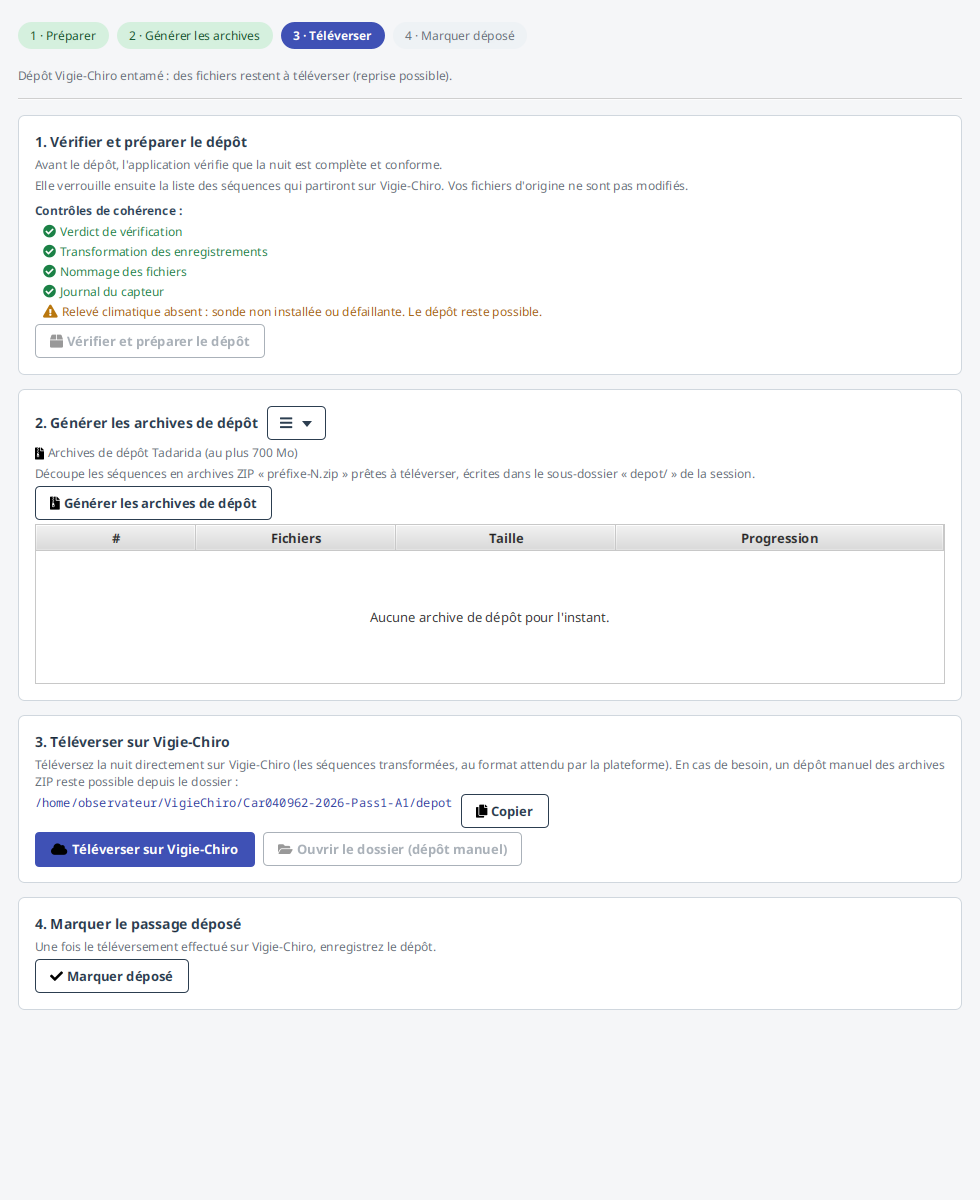
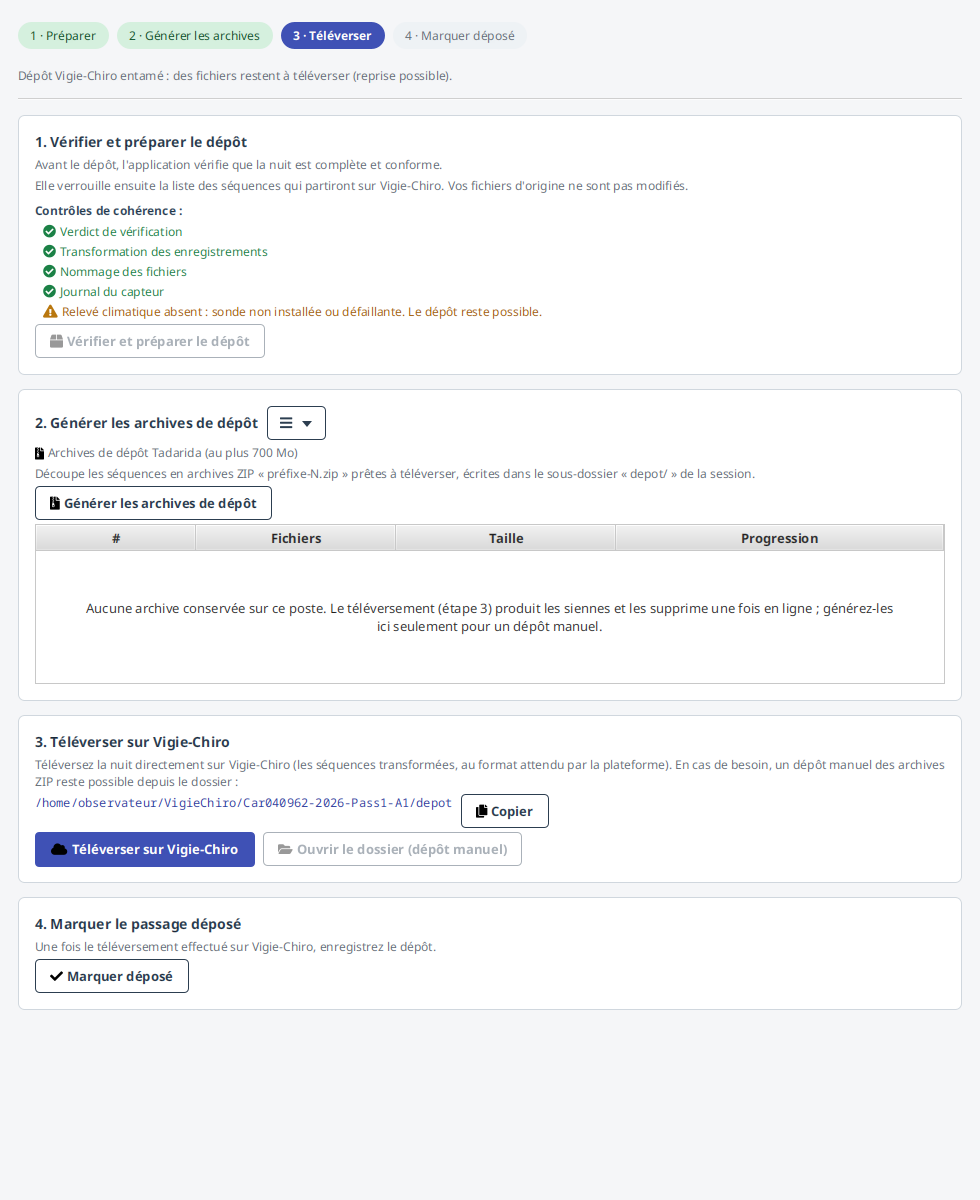
fix(lot): l'étape 2 ne dit plus « aucune archive » pendant que l'étape 3 les envoie
Pendant le dépôt réel de #5597, l'étape 2 affichait « Aucune archive de
dépôt pour l'instant. » alors que la table de l'étape 3 montrait les ZIP
en cours, en attente ou terminés. Le téléversement produit ses archives
au fil de l'envoi et supprime chacune une fois en ligne : l'étape 2, qui
ne liste que les archives présentes sur le disque, restait vide et le
disait d'une façon qui contredisait l'étape 3.

Le texte de la table vide suit désormais l'état, avec les libellés
validés par le porteur :

- pendant un téléversement : le téléversement produit ses archives au
  fil de l'envoi et les supprime une fois en ligne, suivez-les à
  l'étape 3 ;
- dépôt automatique offert, sans envoi en cours (état initial, dépôt
  entamé, dépôt terminé) : aucune archive conservée sur ce poste, et la
  génération ne sert qu'au dépôt manuel ;
- sans dépôt automatique : l'ancien texte, inchangé.

Le dépôt automatique est présent dans toute l'application, connecté ou
non : le troisième texte ne s'affiche que dans les contextes partiels.
Le texte, enroulé sur deux lignes, est centré avec une marge.

Les aperçus du lot dont la table de l'étape 2 est vide sont régénérés,
docs/ecrans/lot.md le dit, et S4-96 l'ajoute à la recette.

Closes #5679

Changed region(s): [[0.0918, 0.4933, 0.8878, 0.5242]]

diff --git a/src/test/java/fr/univ_amu/iut/lot/view/LotDepotConnecteViewTest.java b/src/test/java/fr/univ_amu/iut/lot/view/LotDepotConnecteViewTest.java
@@ -35,12 +35,14 @@ import fr.univ_amu.iut.lot.model.TypeDepotUnite;
 import fr.univ_amu.iut.lot.viewmodel.DepotViewModel;
 import fr.univ_amu.iut.lot.viewmodel.LotViewModel;
 import fr.univ_amu.iut.lot.viewmodel.TraitementViewModel;
+import fr.univ_amu.iut.recette.Attente;
 import java.util.List;
 import java.util.Optional;
 import javafx.fxml.FXMLLoader;
 import javafx.scene.Parent;
 import javafx.scene.control.Button;
 import javafx.scene.control.Label;
+import javafx.scene.control.TableView;
 import javafx.scene.layout.VBox;
 import javafx.stage.Stage;
 import org.junit.jupiter.api.DisplayName;
@@ -71,11 +73,13 @@ class LotDepotConnecteViewTest {
     private DepotVigieChiro depot;
     private SuiviTraitement suivi;
     private LotController controleur;
+    private DepotViewModel depotViewModel;
 
     @Start
     void start(Stage stage) throws Exception {
         service = mock(ServiceLot.class);
         depot = mock(DepotVigieChiro.class);
+        depotViewModel = new DepotViewModel(service, Optional.of(depot));
         suivi = mock(SuiviTraitement.class);
         // État réel après un dépôt par l'API : nuit téléversée (plan rempli), participation liée.
         when(service.consulterLot(anyLong()))
@@ -96,7 +100,7 @@ class LotDepotConnecteViewTest {
 
                     @Provides
                     DepotViewModel depotViewModel() {
-                        return new DepotViewModel(service, Optional.of(depot));
+                        return depotViewModel;
                     }
 
                     @Provides
@@ -118,6 +122,37 @@ class LotDepotConnecteViewTest {
         controleur.ouvrirSur(CONTEXTE);
         FenetreAjustable.poser(stage, vue, 980, 980);
         FenetreAjustable.afficher(stage);
+    }
+
+    /// Connecté, le téléversement produit ses ZIP et les supprime une fois en ligne : l'étape 2 vide
+    /// disait « aucune archive » pendant que l'étape 3 les envoyait (#5679, recette de #5597).
+    @Test
+    @DisplayName(
+            "#5679 : connecté sans envoi en cours, l'étape 2 dit que le téléversement produit et supprime ses archives")
+    void connecte_l_etape_2_dit_ou_sont_les_archives(FxRobot robot) {
+        assertThat(texteDeLEtape2(robot))
+                .doesNotContain("pour l'instant")
+                .contains("Aucune archive conservée sur ce poste")
+                .contains("dépôt manuel");
+    }
+
+    @Test
+    @DisplayName("#5679 : pendant un téléversement, l'étape 2 renvoie à l'étape 3 qui suit les archives")
+    void pendant_un_televersement_l_etape_2_renvoie_a_l_etape_3(FxRobot robot) {
+        Attente.surLeFil(depotViewModel::marquerEnCours, "un téléversement démarre", 5_000L);
+
+        assertThat(texteDeLEtape2(robot)).contains("au fil de l'envoi").contains("suivez-les à l'étape 3");
+    }
+
+    /// Le texte que la table de l'étape 2 affiche quand elle est vide, lu sur le fil JavaFX.
+    private static String texteDeLEtape2(FxRobot robot) {
+        return Attente.surLeFil(
+                () -> ((Label) robot.lookup("#tableArchives")
+                                .queryAs(TableView.class)
+                                .getPlaceholder())
+                        .getText(),
+                "lire le texte vide de l'étape 2",
+                5_000L);
     }
 
     @Test

diff --git a/src/main/java/fr/univ_amu/iut/lot/view/TableSuiviArchives.java b/src/main/java/fr/univ_amu/iut/lot/view/TableSuiviArchives.java
@@ -7,14 +7,21 @@ import fr.univ_amu.iut.lot.viewmodel.LigneArchive;
 import java.util.List;
 import javafx.beans.binding.Bindings;
 import javafx.beans.property.ReadOnlyObjectWrapper;
+import javafx.beans.value.ObservableValue;
+import javafx.geometry.Insets;
+import javafx.scene.control.Label;
 import javafx.scene.control.TableColumn;
 import javafx.scene.control.TableView;
+import javafx.scene.text.TextAlignment;
 
 /// Configure la table de suivi du dépôt (#820) : une [LigneArchive] par ZIP. Délègue au socle
 /// [TableSuivi] (colonnes `#`/Progression, cellule état/barre, coloration de la ligne selon l'état) et
 /// n'ajoute que les colonnes propres au dépôt : Fichiers et Taille. Encapsulé hors du controller pour
 /// garder celui-ci en pur câblage.
 final class TableSuiviArchives {
+
+    /// Marge de part et d'autre du texte vide : enroulé sur deux lignes, il ne touche pas les bords.
+    private static final double MARGE_DU_TEXTE_VIDE = 48;
 
     private TableSuiviArchives() {}
 
@@ -23,10 +30,19 @@ final class TableSuiviArchives {
     /// de la table de suivi) sont verrouillées ; « Fichiers » et « Taille » sont masquables. `#` et
     /// « Progression » sont posées par le socle [TableSuivi] (première et dernière colonnes), on les relit donc
     /// sur la table plutôt que de les reconstruire.
-    static List<GestionnaireColonnes.Colonne> configurer(TableView<LigneArchive> table) {
+    ///
+    /// `texteVide` est ce que la table dit sans archive : il suit l'état du dépôt (#5679).
+    static List<GestionnaireColonnes.Colonne> configurer(
+            TableView<LigneArchive> table, ObservableValue<String> texteVide) {
         TableColumn<LigneArchive, Integer> fichiers = colFichiers();
         TableColumn<LigneArchive, String> taille = colTaille();
-        TableSuivi.configurer(table, "Aucune archive de dépôt pour l'instant.", fichiers, taille);
+        TableSuivi.configurer(table, texteVide.getValue(), fichiers, taille);
+        Label vide = new Label();
+        vide.setWrapText(true);
+        vide.setTextAlignment(TextAlignment.CENTER);
+        vide.setPadding(new Insets(0, MARGE_DU_TEXTE_VIDE, 0, MARGE_DU_TEXTE_VIDE));
+        vide.textProperty().bind(texteVide);
+        table.setPlaceholder(vide);
         TableColumn<?, ?> numero = table.getColumns().get(0);
         TableColumn<?, ?> progression =
                 table.getColumns().get(table.getColumns().size() - 1);

diff --git a/src/main/java/fr/univ_amu/iut/lot/viewmodel/FormatsLot.java b/src/main/java/fr/univ_amu/iut/lot/viewmodel/FormatsLot.java
@@ -81,6 +81,26 @@ public final class FormatsLot {
                 + (definitif ? "." : " Réessayez plus tard.");
     }
 
+    /// Ce que dit l'étape 2 quand aucune archive n'est sur le disque (#5679). Le téléversement produit
+    /// ses ZIP au fil de l'envoi et supprime chacun une fois en ligne : « aucune archive » y contredisait
+    /// l'étape 3, qui les montrait partir. Le dépôt automatique est présent dans toute l'application,
+    /// connecté ou non ; seuls les contextes partiels (outils, tests) s'en passent.
+    ///
+    /// @param depotAutomatique `true` si le téléversement vers Vigie-Chiro est offert
+    /// @param televersementEnCours `true` pendant un téléversement
+    /// @return le texte, jamais vide
+    public static String archivesAbsentes(boolean depotAutomatique, boolean televersementEnCours) {
+        if (!depotAutomatique) {
+            return "Aucune archive de dépôt pour l'instant.";
+        }
+        if (televersementEnCours) {
+            return "Le téléversement produit ses archives au fil de l'envoi et les supprime une fois en ligne :"
+                    + " suivez-les à l'étape 3.";
+        }
+        return "Aucune archive conservée sur ce poste. Le téléversement (étape 3) produit les siennes et les"
+                + " supprime une fois en ligne ; générez-les ici seulement pour un dépôt manuel.";
+    }
+
     public static String libelleDepotEnCours(int deposees, int enCours, int echecs, int total) {
         if (total == 0) {
             return "Dépôt en préparation…";

diff --git a/src/test/java/fr/univ_amu/iut/lot/viewmodel/FormatsLotTest.java b/src/test/java/fr/univ_amu/iut/lot/viewmodel/FormatsLotTest.java
@@ -66,4 +66,18 @@ class FormatsLotTest {
         assertThat(FormatsLot.libelleDepotEnCours(3, 5, 1, 21))
                 .isEqualTo("Dépôt : 3/21 déposé(s) · 5 en cours · 1 échec(s)");
     }
+
+    /// Trois états, trois textes (#5679) : l'étape 2 vide ne doit pas contredire l'étape 3, qui envoie
+    /// des archives produites puis supprimées au fil du téléversement.
+    @Test
+    @DisplayName("#5679 : le texte de l'étape 2 vide suit la connexion et le téléversement")
+    void l_etape_2_vide_suit_la_connexion_et_le_televersement() {
+        assertThat(FormatsLot.archivesAbsentes(false, false)).isEqualTo("Aucune archive de dépôt pour l'instant.");
+        assertThat(FormatsLot.archivesAbsentes(true, false))
+                .isEqualTo("Aucune archive conservée sur ce poste. Le téléversement (étape 3) produit les siennes"
+                        + " et les supprime une fois en ligne ; générez-les ici seulement pour un dépôt manuel.");
+        assertThat(FormatsLot.archivesAbsentes(true, true))
+                .isEqualTo("Le téléversement produit ses archives au fil de l'envoi et les supprime une fois en"
+                        + " ligne : suivez-les à l'étape 3.");
+    }
 }

diff --git a/src/main/java/fr/univ_amu/iut/lot/view/LotController.java b/src/main/java/fr/univ_amu/iut/lot/view/LotController.java
@@ -32,6 +32,7 @@ import fr.univ_amu.iut.lot.model.StatutControle;
 import fr.univ_amu.iut.lot.model.SuiviArchives;
 import fr.univ_amu.iut.lot.viewmodel.DepotViewModel;
 import fr.univ_amu.iut.lot.viewmodel.EtapeDepot;
+import fr.univ_amu.iut.lot.viewmodel.FormatsLot;
 import fr.univ_amu.iut.lot.viewmodel.LigneArchive;
 import fr.univ_amu.iut.lot.viewmodel.LotViewModel;
 import fr.univ_amu.iut.lot.viewmodel.TraitementViewModel;
@@ -374,7 +375,13 @@ public class LotController implements EmplacementNavigation, ResumeStatut {
         GestionnaireColonnes.installerEtPersister(
                 tableArchives,
                 menuOutils,
-                TableSuiviArchives.configurer(tableArchives),
+                TableSuiviArchives.configurer(
+                        tableArchives,
+                        Bindings.createStringBinding(
+                                () -> FormatsLot.archivesAbsentes(
+                                        depotViewModel.disponible(),
+                                        depotViewModel.enCoursProperty().get()),
+                                depotViewModel.enCoursProperty())),
                 depotColonnes,
                 "lot",
                 "principale",

diff --git a/src/test/java/fr/univ_amu/iut/architecture/DeclarationDesBindingsTest.java b/src/test/java/fr/univ_amu/iut/architecture/DeclarationDesBindingsTest.java
@@ -49,7 +49,7 @@ class DeclarationDesBindingsTest {
     /// `carreRecuperable`. Les trois derniers sont déclarés ; `carreValide` ne l'est pas **directement**,
     /// mais `peutEnregistrer` en dépend par construction (`carreValide.and(…)`), donc toute invalidation
     /// du carré invalide le binding. Déclaration jugée **complète**.
-    private static final int SITES_RELEVES = 64;
+    private static final int SITES_RELEVES = 65; // +1 #5679 : texte de l'étape 2 vide, lit enCours (déclaré)
 
     private static final Pattern APPEL = Pattern.compile("Bindings\\.create[A-Za-z]*Binding\\s*\\(");
 

diff --git a/dev-docs/decisions/index.md b/dev-docs/decisions/index.md
@@ -290,7 +290,7 @@ Les premières entrées sont **rétroactives** : elles consignent, à partir des
 | [4343](4343-la-prose-visible-se-relit-a-l-humaniseur.md) | Rien ne disait à qui écrit une ADR, une page ou un message de commit sur quoi se relire. Toute prose qu'un humain lira hors de l'échange qui l'a produite passe la grille de la compétence `humaniseur` avant d'être commise, et les sept tics de CONTRIBUTING.md en sont le sous-ensemble opposable : la grille sert à relire, les sept servent à refuser. Vérification HUMAINE assumée : aucun motif textuel ne décide si une emphase informe. Trois loupes relèvent ce qui se compte, le cadratin, la javadoc narrative et le pictogramme | #4343, EPIC #4334 |
 | [4366](4366-un-avertissement-se-dit-en-mots.md) | Le pictogramme d'alerte n'apporte pas l'information : il annonce qu'il y en a une. Mesure : 1967 occurrences du signe sur les fichiers versionnés, dont 1 485 en PROSE une fois écartés le contenu montré, les blocs de code, les chaînes littérales et le signe cité comme jeton. Ce qui doit alerter se dit dans la phrase, ou dans l'encart que le format prévoit. Cliquet à <!--inv:cliquet-pictogramme-->0<!--/inv-->, et le garde rend des SUSPECTS : retirer le signe ne suffit pas, une ligne qui ne dit l'alerte QUE par le signe demande d'être réécrite | #4366, EPIC #4334 |
 | [4368](4368-l-apostrophe-d-un-libelle-est-droite.md) | `CONTRIBUTING.md` énonçait la règle depuis #4343 et rien ne la tenait. Mesure : 188 apostrophes courbes dans 68 fichiers, dont **douze seulement** dans des chaînes littérales, c'est-à-dire montrées à l'utilisateur ; deux écrans affichaient alors deux apostrophes différentes pour le même mot. Les douze sont corrigées et la zone tenue à zéro. Le garde ne lit ni les commentaires, ni le brief, ni les tests : un cliquet à 188 aurait fait porter une relecture de 68 fichiers à un défaut qui n'en concernait que trois | #4368, EPIC #4334 |
-| [4395](4395-un-renvoi-porte-par-la-javadoc-ne-se-perd-pas.md) | L'article A30 veut que la javadoc CITE l'ADR au lieu de la redire, et le renvoi `#N` est cette citation. Le même article ouvre un cliquet de <!--inv:cliquet-javadoc-->740<!--/inv--> lignes de prose à résorber : la citation vit dans la prose qu'on coupe, et un renvoi perdu ne casse rien, il cesse d'ouvrir. Mesure : <!--inv:plancher-renvois-->3 366<!--/inv--> issues distinctes citées dans 1 006 fichiers, dont 1 572 dans les fichiers dont la ligne d'origine offre une javadoc déjà contractée - qui, elle, n'en porte aucun. Un PLANCHER, de polarité inverse au cliquet : descendre est la perte, monter est à déclarer | #4395, EPIC #4394 |
+| [4395](4395-un-renvoi-porte-par-la-javadoc-ne-se-perd-pas.md) | L'article A30 veut que la javadoc CITE l'ADR au lieu de la redire, et le renvoi `#N` est cette citation. Le même article ouvre un cliquet de <!--inv:cliquet-javadoc-->740<!--/inv--> lignes de prose à résorber : la citation vit dans la prose qu'on coupe, et un renvoi perdu ne casse rien, il cesse d'ouvrir. Mesure : <!--inv:plancher-renvois-->3 368<!--/inv--> issues distinctes citées dans 1 006 fichiers, dont 1 572 dans les fichiers dont la ligne d'origine offre une javadoc déjà contractée - qui, elle, n'en porte aucun. Un PLANCHER, de polarité inverse au cliquet : descendre est la perte, monter est à déclarer | #4395, EPIC #4394 |
 | [4453](4453-la-prose-publiee-sur-la-forge-releve-de-la-meme-grille.md) | L'article A31 énumérait les surfaces où la prose se relit, et le corps d'issue comme celui de PR n'y figuraient pas - alors que `clore-une-issue` en fait les DEUX textes qui se relisent dans six mois sans le fil. Le déclencheur y était pour quelque chose : « avant d'être commise » ne peut atteindre un corps de PR, qui n'est jamais commis. Mesure ici sur cent corps : **dix-sept refusés**, cinquante lignes, trente-neuf cadratins de prose et onze élisions sans apostrophe, dont dix PR ouvertes le jour même de la décision. Un garde de CI en refuse la part mécanisable, informatif comme celui du titre | #4453, chantier #4334 |
 | [4472](4472-un-commentaire-long-en-corps-de-methode-est-un-signal.md) | Le cliquet 4359 ne compte que les lignes `///` : raccourcir une javadoc en poussant son récit trois lignes plus bas le faisait DESCENDRE sans que rien ne soit résorbé. Un compteur séparé, jamais mêlé au premier - les mêler laisserait un raccourcissement compenser un débordement, total stable et verdict vert. La mesure rassure et c'est pourquoi elle vaut d'être tenue : 4 656 blocs, médiane 2, aucun au-dessus de 15. Seuil à 8, cliquet à <!--inv:cliquet-commentaire-corps-->24<!--/inv--> | #4472, chantier #4394 |
 | [4468](4468-une-javadoc-non-relue-est-une-dette-tenue-par-son-empreinte.md) | Le lot 2 ne mesurait que ce qu'il RACCOURCIT, jamais ce qu'il a LU - et effacer de la prose sans l'avoir lue faisait baisser le compte, donc le cliquet récompensait la suppression à l'aveugle. Un second cliquet, au grain du FICHIER : il tient qu'aucun fichier neuf n'échappe à la relecture, et qu'aucune javadoc relue ne se réécrit en douce, son empreinte changeant. Il ne tient PAS que la lecture ait eu lieu, ce qu'aucun script ne peut vérifier, d'où `probable`. Ouvre à 1 979 fichiers, manifeste vide ; aujourd'hui à <!--inv:cliquet-relecture-->0<!--/inv-->, tout le corpus relu | #4468, chantier #4394 |
@@ -312,7 +312,7 @@ Les premières entrées sont **rétroactives** : elles consignent, à partir des
 | [4546](4546-un-corps-de-pr-ne-promet-pas-ce-que-la-forge-ne-fera-pas.md) | Les trois refus du garde du corps de PR sont typographiques ; « Ferme #N » n'est pas de cette famille. La forge ne reconnaît que `close`, `fix` et `resolve` : la demande fusionne verte, l'issue reste ouverte, et rien ne le signale. Ce n'est pas une forme malheureuse, c'est une promesse non tenue. #4350 avait écarté un garde parce qu'il aurait cherché ce qui MANQUE et rougi sur tout lot d'un EPIC ; celui-ci cherche ce qui est PRÉSENT, forme jamais légitime, et « Refs #N » reste vert. `close` est absent de la liste des verbes, « Close #N » étant un mot-clé anglais valide : le refuser ferait réécrire en français ce qui marchait | #4546, passe 11 de la clôture de #4502 |
 | [4571](4571-une-fusion-sans-verdict-se-refuse.md) | L'ADR 0041 assume qu'on fusionne en rouge : l'information est visible, l'ignorer est un choix. Elle n'avait pas rencontré l'autre cas. #4560 a été fusionnée à 17:13:02Z avec zéro run sur son commit de tête - les sept sont nés à 17:15, deux minutes trop tard - et a laissé `main` rouge. Un rouge passé outre engage qui le fait ; une fusion sans verdict n'engage personne, faute d'avoir rien eu à lire. Le refus vit du côté du contributeur et non de la forge, parce que le coût d'un check requis est déjà mesuré et qu'un mainteneur unique dispose de toute façon du contournement. Le garde ne juge pas la couleur, et refuse quand il ne sait pas lire | #4571, sas des suites #4562 |
 | [4586](4586-le-corpus-d-un-garde-se-declare-une-fois.md) | #4488 avait decide que les gardes de code lisent les DEUX arbres, et `verifie_scripts.py` le tenait par une liste ECRITE A LA MAIN, qui avait derive : dix entrees pour quinze gardes portant le chemin de l arbre de test. Six n etaient verifies par rien, et un cliquet ne se plaint pas qu on lui retire du corpus. Le corpus se declare desormais dans `_commun.py`, la liste se DERIVE de ce que chaque garde importe (15 contre 10), et un refus interdit de recopier un chemin | #4586, chantier #4502 |
-| [4587](4587-le-plancher-des-renvois-de-test-est-distinct.md) | Le plancher de l'ADR 4395 n'a jamais lu `src/test`, ou vivent <!--inv:plancher-renvois-test-->1 277<!--/inv--> renvois que rien ne garde - dont 274 pointant vers une issue que la production ne cite NULLE PART, soit 151 discussions dont le seul lien dans le code est un test. DEUX planchers et non un : un compteur unique laisserait une perte d'un cote se compenser par un gain de l'autre. La disjonction se prouve par mutation dans les deux sens | #4587, apres #4646 |
+| [4587](4587-le-plancher-des-renvois-de-test-est-distinct.md) | Le plancher de l'ADR 4395 n'a jamais lu `src/test`, ou vivent <!--inv:plancher-renvois-test-->1 280<!--/inv--> renvois que rien ne garde - dont 274 pointant vers une issue que la production ne cite NULLE PART, soit 151 discussions dont le seul lien dans le code est un test. DEUX planchers et non un : un compteur unique laisserait une perte d'un cote se compenser par un gain de l'autre. La disjonction se prouve par mutation dans les deux sens | #4587, apres #4646 |
 | [4636](4636-l-inventaire-du-portage-lit-les-contrats.md) | L'inventaire du portage comparait des NOMS de fichiers, apres normalisation de deux conventions de nommage - et c'est cette difference-la qui avait rendu une loupe portee inerte, comptee comme presente et ne rapportant rien. Un releve lit desormais ce qu'un garde DECLARE : geste, ADR, population, seuil, verdict. Il montre sans juger, 33 ecarts sur 30 gestes au premier passage. Deux limites declarees : le predicat ne se compare pas, et l'appariement par le geste laisse deux gardes du meme sujet en deux absences | #4636, EPIC #4634 |
 | [4617](4617-le-portail-voit-les-tests-et-le-code-mort.md) | Une méthode privée jamais appelée a vécu à soixante-quinze lignes de la version correcte du même helper (#4554). Deux trous, qu'il ne faut pas confondre : le jeu ne portait que sept règles de conception, donc le code mort n'était couvert **nulle part**, production comprise ; et l'assiette laissait dehors 52 % du Java. `UnusedPrivateMethod` entre, en écartant les méthodes du `FXMLLoader` par leur forme et non les 42 contrôleurs entiers. Les littéraux dupliqués ne comptent pas en zone de test, où les répéter est le geste juste : ils font 1 366 des 1 428 signalements, et zéro en production. Le filtre vit dans le cliquet parce que PMD ne sait pas l'exprimer, quatre formes essayées | #4617, sas des suites #4562 |
 | [4598](4598-le-titre-se-verifie-avant-l-ouverture.md) | Quatre PR rouges le même jour sur l'espace avant les deux-points. Le dépôt pratique deux conventions à un caractère d'écart, et c'est la plus écrite qui est fausse en PR : 62 des 100 derniers titres d'issue la portent, les 100 dernières PR fusionnées sont à zéro. Le défaut n'entre pas au commit, les quatre partant d'une branche aux sujets conformes et 286 des 297 sujets de branche l'étant : il entre à la frappe du titre, que `gh pr create --fill` impose dès qu'une branche porte plus d'un commit (10 des 30 dernières PR). Le remède ne crée aucune règle, il fait lancer `verifie-titre-pr.sh` avant l'ouverture. Aligner les titres d'issue est ÉCARTÉ : soixante-deux renommages pour couvrir un des quatre défauts | #4598 |

diff --git a/dev-docs/recette/sessions/s4-deposer-suivre.md b/dev-docs/recette/sessions/s4-deposer-suivre.md
@@ -128,6 +128,7 @@ participation », puis le suivi du traitement. S4 est la première session qui *
 - **S4-41** · *hors-portée: cinq transferts qui progressent VRAIMENT de front. Sur un lien local on verrait cinq tâches planifiées, ce qui n'est pas la même chose* · Cinq lignes sont « en cours » simultanément (parallélisme de 5).
 - **S4-42** · *hors-portée: des octets qui partent sur un vrai lien. Sur un lien local, la barre mesurerait la remise à un tampon et non un envoi* · Une barre de progression par archive reflète les octets envoyés.
 - **S4-95** · *hors-portée: un envoi assez long vers un vrai serveur pour qu'on clique au milieu ; le banc ne sait pas faire durer un téléversement* · Pendant l'envoi d'une archive, **Annuler le dépôt** : l'écran quitte « Annulation… » en quelques secondes, le temps de la partie en cours (5 Mio) ou d'une compression déjà commencée, et non plus après l'archive entière. « Reprendre le dépôt » renvoie ensuite l'archive interrompue (#5625).
+- **S4-96** · Pendant le téléversement, le tableau de l'étape 2 reste vide et le **dit** : le téléversement produit ses archives au fil de l'envoi et les supprime une fois en ligne, suivez-les à l'étape 3. Le dépôt fini, il dit qu'aucune archive n'est conservée sur ce poste, et qu'on ne génère ici que pour un dépôt manuel. Il ne dit plus « Aucune archive de dépôt pour l'instant » pendant que l'étape 3 les montre partir (#5679).
 - **S4-43** · *hors-portée: une manipulation du réseau en cours d'opération - coupure, bridage à quelques dizaines de ko/s - que le banc ne sait pas provoquer sans mentir sur la cause* · Couper le réseau pendant le dépôt : échecs avec raison au survol, le bouton devient « ↻ Reprendre le
   dépôt ».
 - **S4-44** · *hors-portée: un serveur qui a réellement gardé une partie des archives, et qui dit lesquelles : la reprise se juge sur ce qu'il en reste chez LUI* · Reprendre ne renvoie que les archives manquantes.

diff --git a/dev-docs/decisions/4395-un-renvoi-porte-par-la-javadoc-ne-se-perd-pas.md b/dev-docs/decisions/4395-un-renvoi-porte-par-la-javadoc-ne-se-perd-pas.md
@@ -8,7 +8,7 @@ decided_at: 2026-08-24
 verification: certaine
 enforced_by:
   - "scripts/adr/4395-renvois-en-javadoc.py"
-floor: 3366
+floor: 3368
 inv_key: plancher-renvois
 verified:
   - by: machine:ci
@@ -55,7 +55,7 @@ sur le dépôt, **ne descend pas**. Il est tenu par un plancher déclaré, que
 Distinctes, et non occurrences : ce qui se perd est qu'un fichier **cesse d'ouvrir** une discussion,
 pas qu'il l'ouvre une fois au lieu de deux.
 
-Le plancher vaut **<!--inv:plancher-renvois-->3 366<!--/inv-->**. Il se relève de ce qu'un chantier
+Le plancher vaut **<!--inv:plancher-renvois-->3 368<!--/inv-->**. Il se relève de ce qu'un chantier
 ajoute, et #4441 lui a rendu **quinze** renvois d'un coup : le dépôt portait cinquante-trois
 `(#…)`, le caractère de suspension au lieu d'un numéro, qu'aucun motif ne voyait puisque celui de ce
 garde exige des chiffres. Chacun a été retrouvé par `git blame`, le commit qui a introduit la ligne

diff --git a/dev-docs/decisions/4587-le-plancher-des-renvois-de-test-est-distinct.md b/dev-docs/decisions/4587-le-plancher-des-renvois-de-test-est-distinct.md
@@ -8,7 +8,7 @@ decided_at: 2026-08-28
 verification: certaine
 enforced_by:
   - "scripts/adr/4395-renvois-en-javadoc.py"
-floor: 1277
+floor: 1280
 inv_key: plancher-renvois-test
 verified:
   - by: machine:ci
@@ -29,7 +29,7 @@ de `src/main/java`. Il n'a jamais lu `src/test/java`.
 a été trouvé en passe 7 de la clôture de #4502, en mesurant pourquoi deux gardes sur treize lisaient
 la production seule. L'autre, `2635`, était une exception justifiée ; celui-ci était un oubli.
 
-Le plancher vaut aujourd'hui **<!--inv:plancher-renvois-test-->1 277<!--/inv-->**, sur 608 fichiers
+Le plancher vaut aujourd'hui **<!--inv:plancher-renvois-test-->1 280<!--/inv-->**, sur 608 fichiers
 porteurs parmi 825. Ce chiffre-là **bouge** - il se relève de ce que chaque lot ajoute - alors que la
 mesure d'ouverture ci-dessus est figée : les mêler dans une phrase datée la rendrait fausse au
 premier relevé, et c'est ce que #4683 a corrigé ici.

diff --git a/docs/ecrans/lot.md b/docs/ecrans/lot.md
@@ -40,6 +40,10 @@ sont neutralisées le temps de l'écriture (on ne risque pas de téléverser une
     Conséquence directe : il n'est plus nécessaire d'avoir la place pour **toutes** les archives à la
     fois. Le téléversement n'en garde que **deux** sur le disque à un instant donné.
 
+    C'est pourquoi le tableau de cette étape reste **vide pendant et après un téléversement** : il ne
+    liste que les archives conservées sur votre machine. Il le dit, et vous renvoie à l'étape 3, qui
+    suit celles qui partent.
+
 ![Génération des archives en cours : indicateur d'activité, actions désactivées.](../assets/captures/apercu-lot-generation.png)
 
 Le tableau de suivi des archives laisse **choisir et réordonner ses colonnes** (clic droit ou menu principal (☰)
